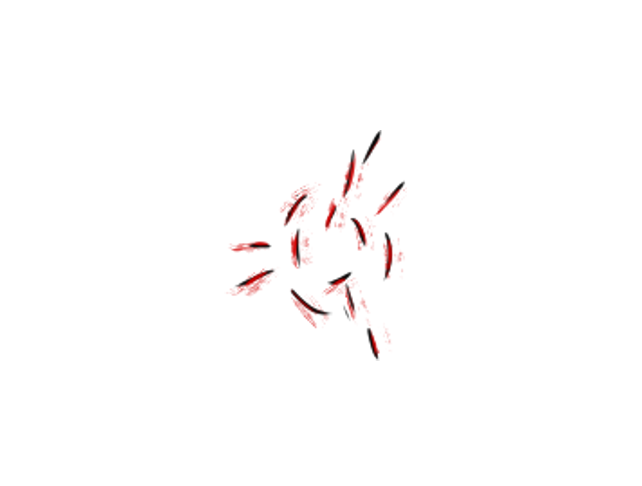
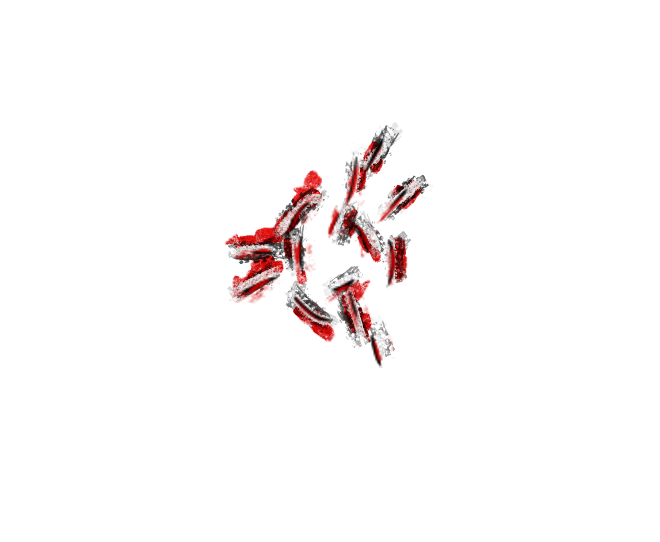
Removed attack animation from block event

Changed region(s): [[0.3427, 0.216, 0.6542, 0.7407]]

diff --git a/Assets/Battle/Scripts/BattleEyesEnemy.cs b/Assets/Battle/Scripts/BattleEyesEnemy.cs
@@ -63,16 +63,8 @@ public class BattleEyesEnemy : BattleUnit
     protected override void PlayBlockAnimation()
     {
         // play animation
-        StartCoroutine(PlayBlastAndShield());
-    }
-
-    IEnumerator PlayBlastAndShield()
-    {
-        blastAnimator.Play("Blast");
-
-        yield return new WaitForSeconds(0.5f);
-
         shieldAnimator.Play("Shield");
+
     }
 
     protected override void PlayDieAnimation()

diff --git a/Assets/Battle/Scripts/BattlePlayer.cs b/Assets/Battle/Scripts/BattlePlayer.cs
@@ -52,15 +52,6 @@ public class BattlePlayer : BattleUnit
     protected override void PlayBlockAnimation()
     {
         // play animation
-        StartCoroutine(PlayTentacleAndShield());
-    }
-
-    IEnumerator PlayTentacleAndShield()
-    {
-        tentacleAnimator.Play("Tentacle");
-
-        yield return new WaitForSeconds(0.5f);
-
         shieldAnimator.Play("Shield");
     }
 
